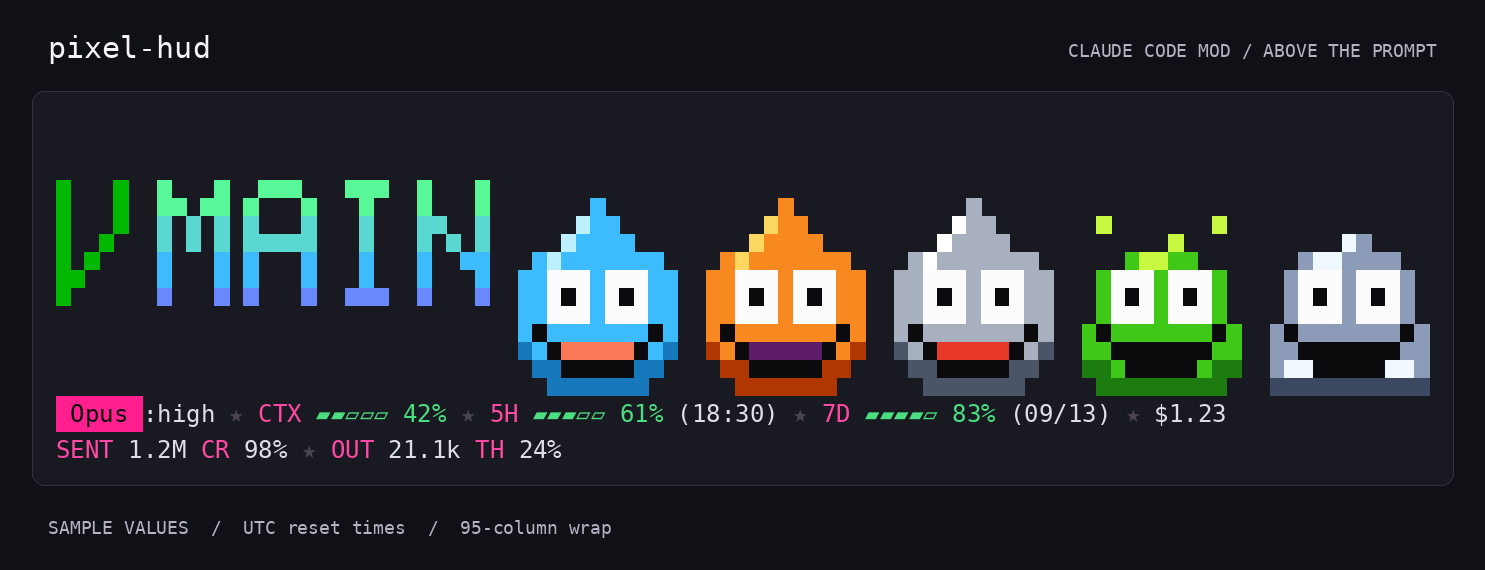
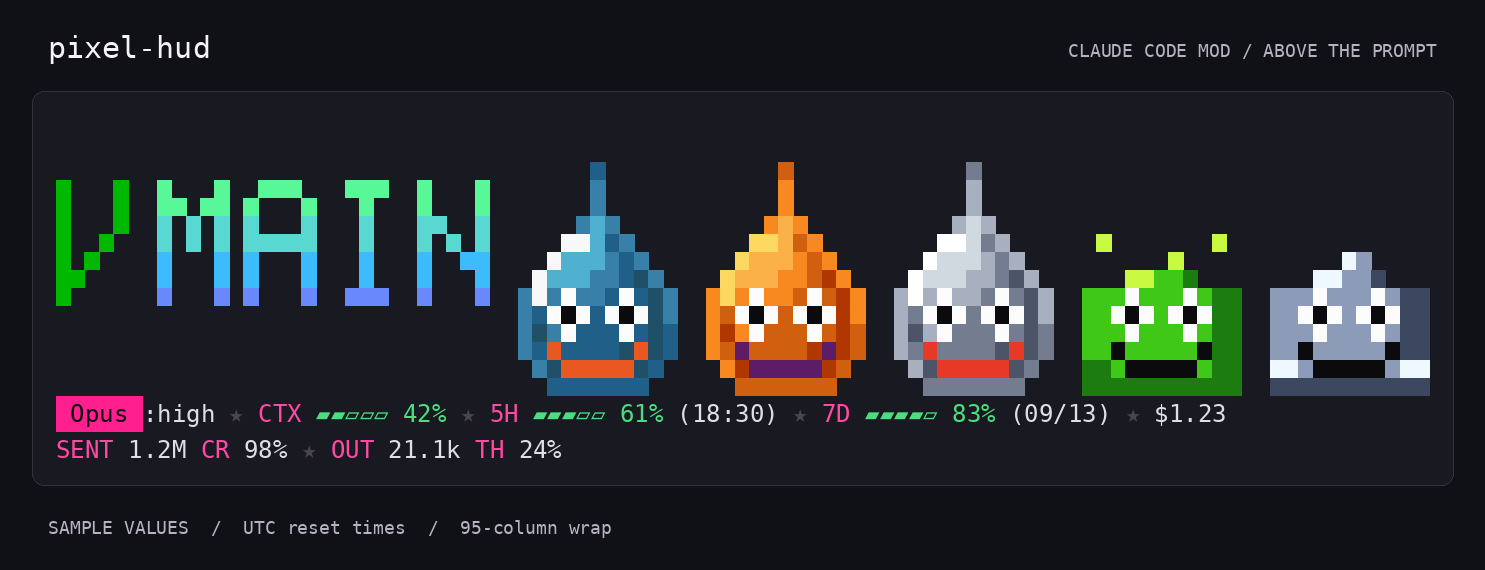
docs(pixel-hud): refresh the SFC kin showcases

Changed region(s): [[0.3407, 0.2982, 0.9603, 0.7158], [0.6505, 0.2684, 0.6815, 0.3579], [0.5266, 0.2684, 0.5576, 0.3579]]

diff --git a/docs/showcase/render_mod.py b/docs/showcase/render_mod.py
@@ -17,12 +17,13 @@ from PIL import Image, ImageChops, ImageDraw, ImageFont, features
 HERE = Path(__file__).resolve().parent
 ROOT = HERE.parent.parent
 MOD = ROOT / "plugins" / "pixel-hud"
+VARIANTS = ["king", "metal"]
 parser = argparse.ArgumentParser(description=__doc__)
 parser.add_argument("--font", default="/usr/share/fonts/truetype/dejavu/DejaVuSansMono.ttf")
 parser.add_argument("--stage", choices=["slimes", "quest"], default="slimes",
                     help="choose the stage theme")
 parser.add_argument("--output", type=Path, help="write the image to this path")
-parser.add_argument("--variant", choices=["king", "gold", "metal"], default="king",
+parser.add_argument("--variant", choices=VARIANTS, default="king",
                     help="which King the slimes crown")
 mode = parser.add_mutually_exclusive_group()
 mode.add_argument("--king", action="store_true",
@@ -219,8 +220,8 @@ export const register: Register = (on, options) => {
 """)
         (copy / "hooks" / "hooks.json").write_text(json.dumps({"modules": ["./battle-showcase.ts"]}))
     else:
-        # A fixed pick in the middle of the variant's third of [0, 1).
-        pick = (["king", "gold", "metal"].index(args.variant) + 0.5) / 3
+        # A fixed pick in the middle of the variant's half of [0, 1).
+        pick = (VARIANTS.index(args.variant) + 0.5) / len(VARIANTS)
         (copy / "hooks" / "king-showcase.ts").write_text(f"""
 import {{ register as registerHud }} from './register'
 import type {{ Register }} from 'claude-code'

diff --git a/docs/showcase/README.md b/docs/showcase/README.md
@@ -55,8 +55,8 @@ The second draws `pixel-hud-king.png`: a task of a minute ends, and the image
 catches the King Slime halfway through its reign, using the exported phase
 lengths.
 The mod picks the King at random; the renderer hands it a fixed pick, the King
-Slime unless `--variant gold` or `--variant metal` asks for the Gold King or
-the Metal King Slime. The committed images use the King Slime.
+Slime unless `--variant metal` asks for the Metal King Slime. The committed
+images use the King Slime.
 The third draws `pixel-hud-king.gif`, the README's demo: the same task, one
 frame for each tick of the slimes' exported `FRAME_MS` clock, from the slimes
 at rest through the whole show and home again. Pillow folds repeated frames
